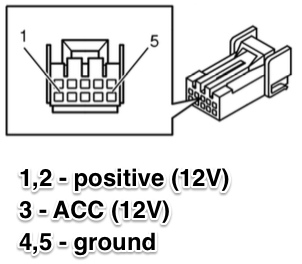
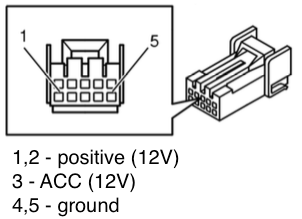
Update examples and schemes

Changed region(s): [[0.0, 0.0822, 0.9834, 0.9863], [0.0, 0.0, 0.596, 0.0548]]

diff --git a/README.md b/README.md
@@ -1,25 +1,34 @@
 ## Controlling Volvo V50 '07 RTI screen with Arduino
 
-[Video of the project](https://www.youtube.com/watch?v=QqmE6McCTZU).
+## Power connection
+
+[<img src='docs/power_connection.png'/>](docs/power_connection.png)
 
 I used Arduino 12V power adapter to power the screen.
 
-### Display
+## Screen connection
+
+[<img src='docs/screen_connection.png'/>](docs/screen_connection.png)
+
+## Screen control signal
+
+Screen is controlled by sending serial signal to screen pin 4. Baud rate 2400, delay between bytes 100ms (works with other close values too).
+
+[Code example](arduino/rti_serial/rti_serial.ino)
+
+[Video example](https://www.youtube.com/watch?v=QqmE6McCTZU)
+
+## VGA signal
 
 VGA signal is generated from Arduino UNO using customized [VGAX library](arduino/VGAXS/). I have changed VGAX HSYNC interval to 64μs, adjusted positioning, pixel timing. 
 
 Display uses VGA Composite Sync signal, so HSYNC & VSYNC signals must be combined into one. I tried just connecting both wires to video sync pin and it worked! So, no need for [signal combining logic](http://www.epanorama.net/circuits/vga2rgbs.html).
 
-Arduino UNO [VGA example](arduino/vga_pirate.ino). In this example I have used native `Serial` and inverted serial signal with extra transistor.
+Arduino UNO [VGA example](arduino/vga_pirate/vga_pirate.ino).
 
 [<img width='50%' src='docs/pirate.jpg'/>](docs/pirate.jpg)
 
-### Schemes
-
-- [Power connection](https://raw.githubusercontent.com/laurynas/volvo/master/doc/power_connection.png)
-- [Screen connection](https://raw.githubusercontent.com/laurynas/volvo/master/doc/screen_connection.png). I used `2SC945` transistor, a bit different from the one in the scheme. It worked fine.
-
-### Thanks!
+## Thanks!
 
 While digging for information I found the most useful info here:
 
